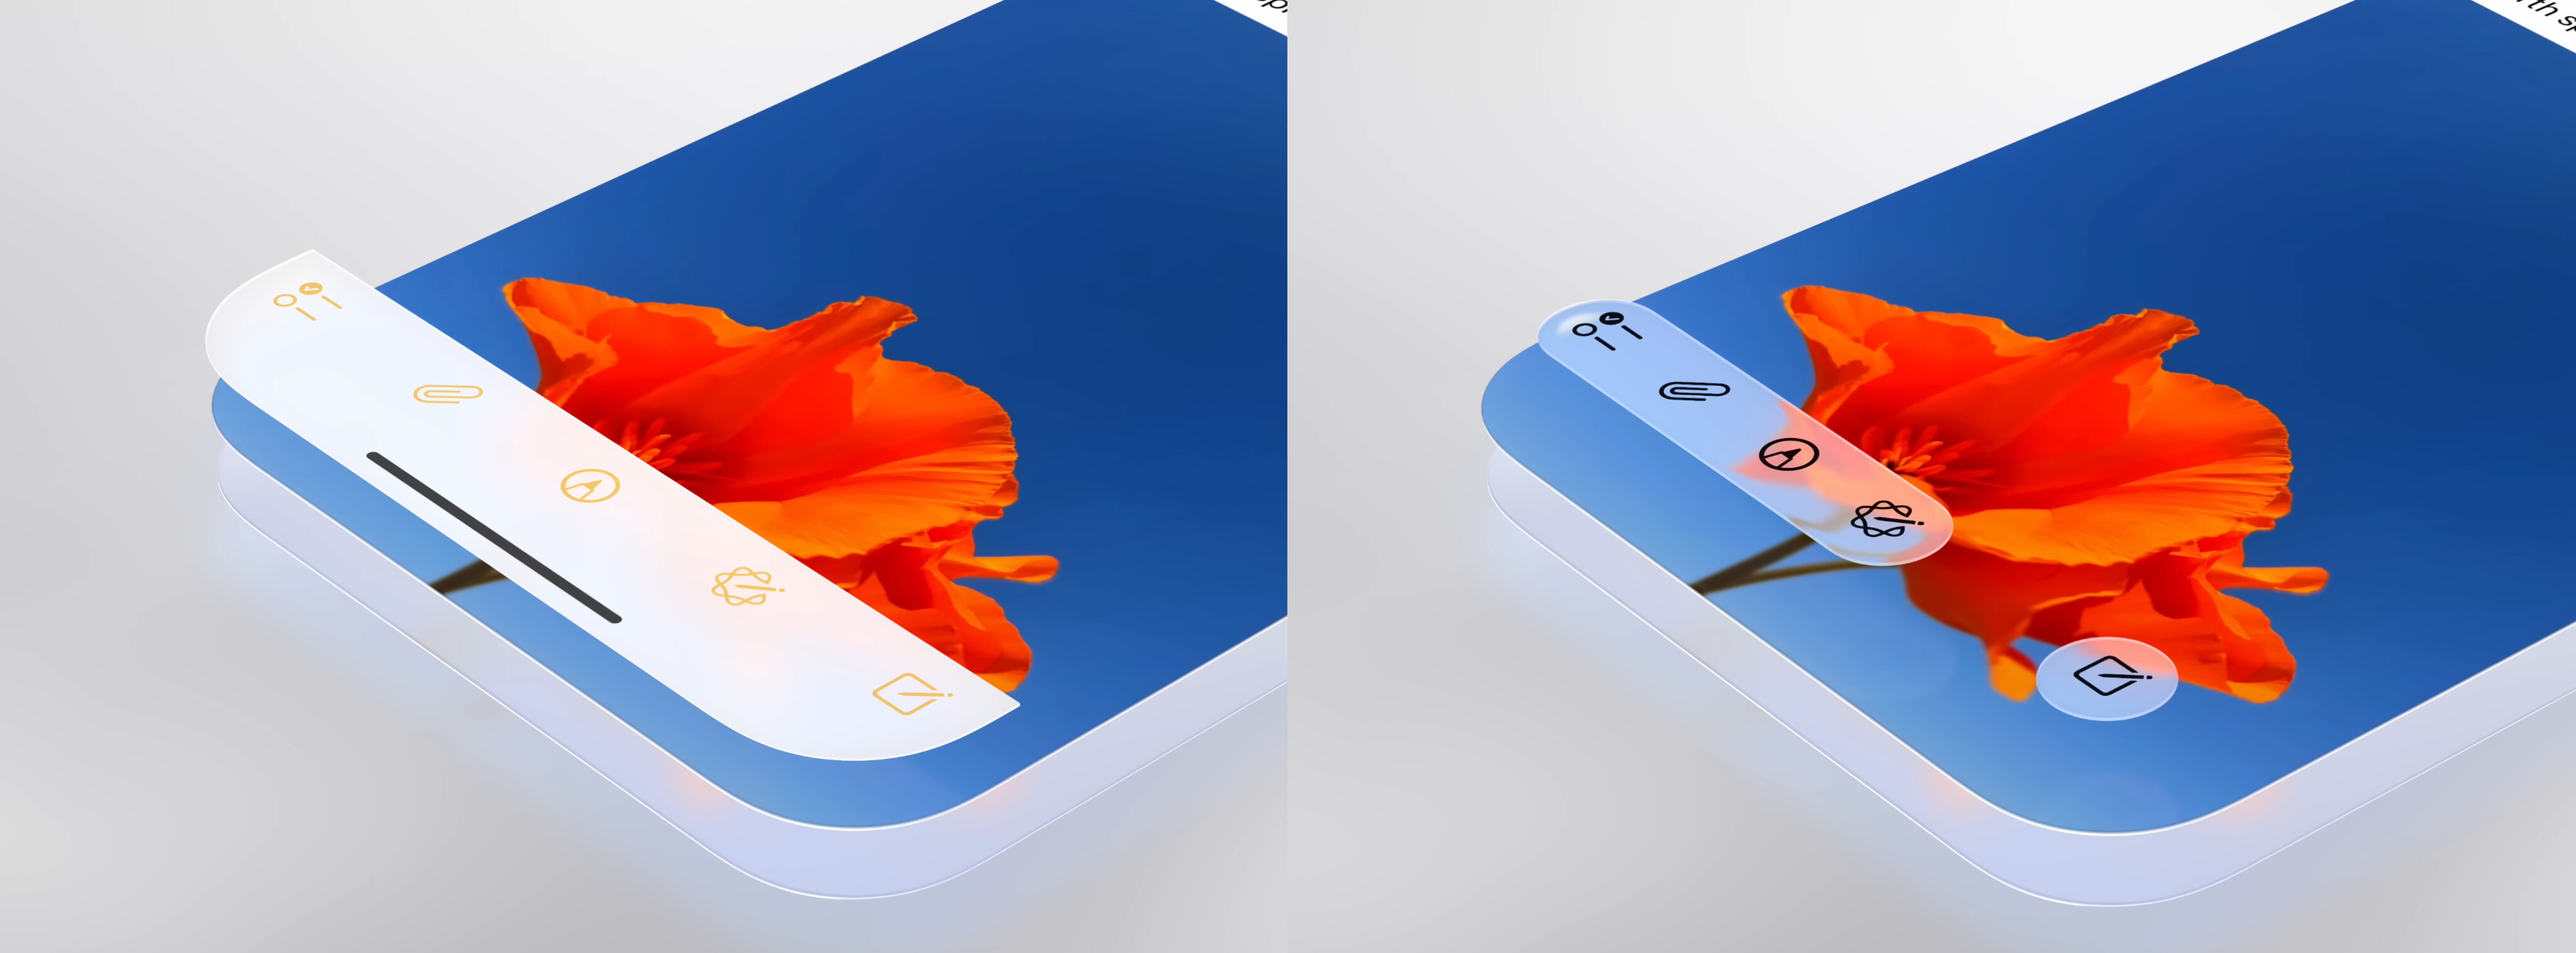
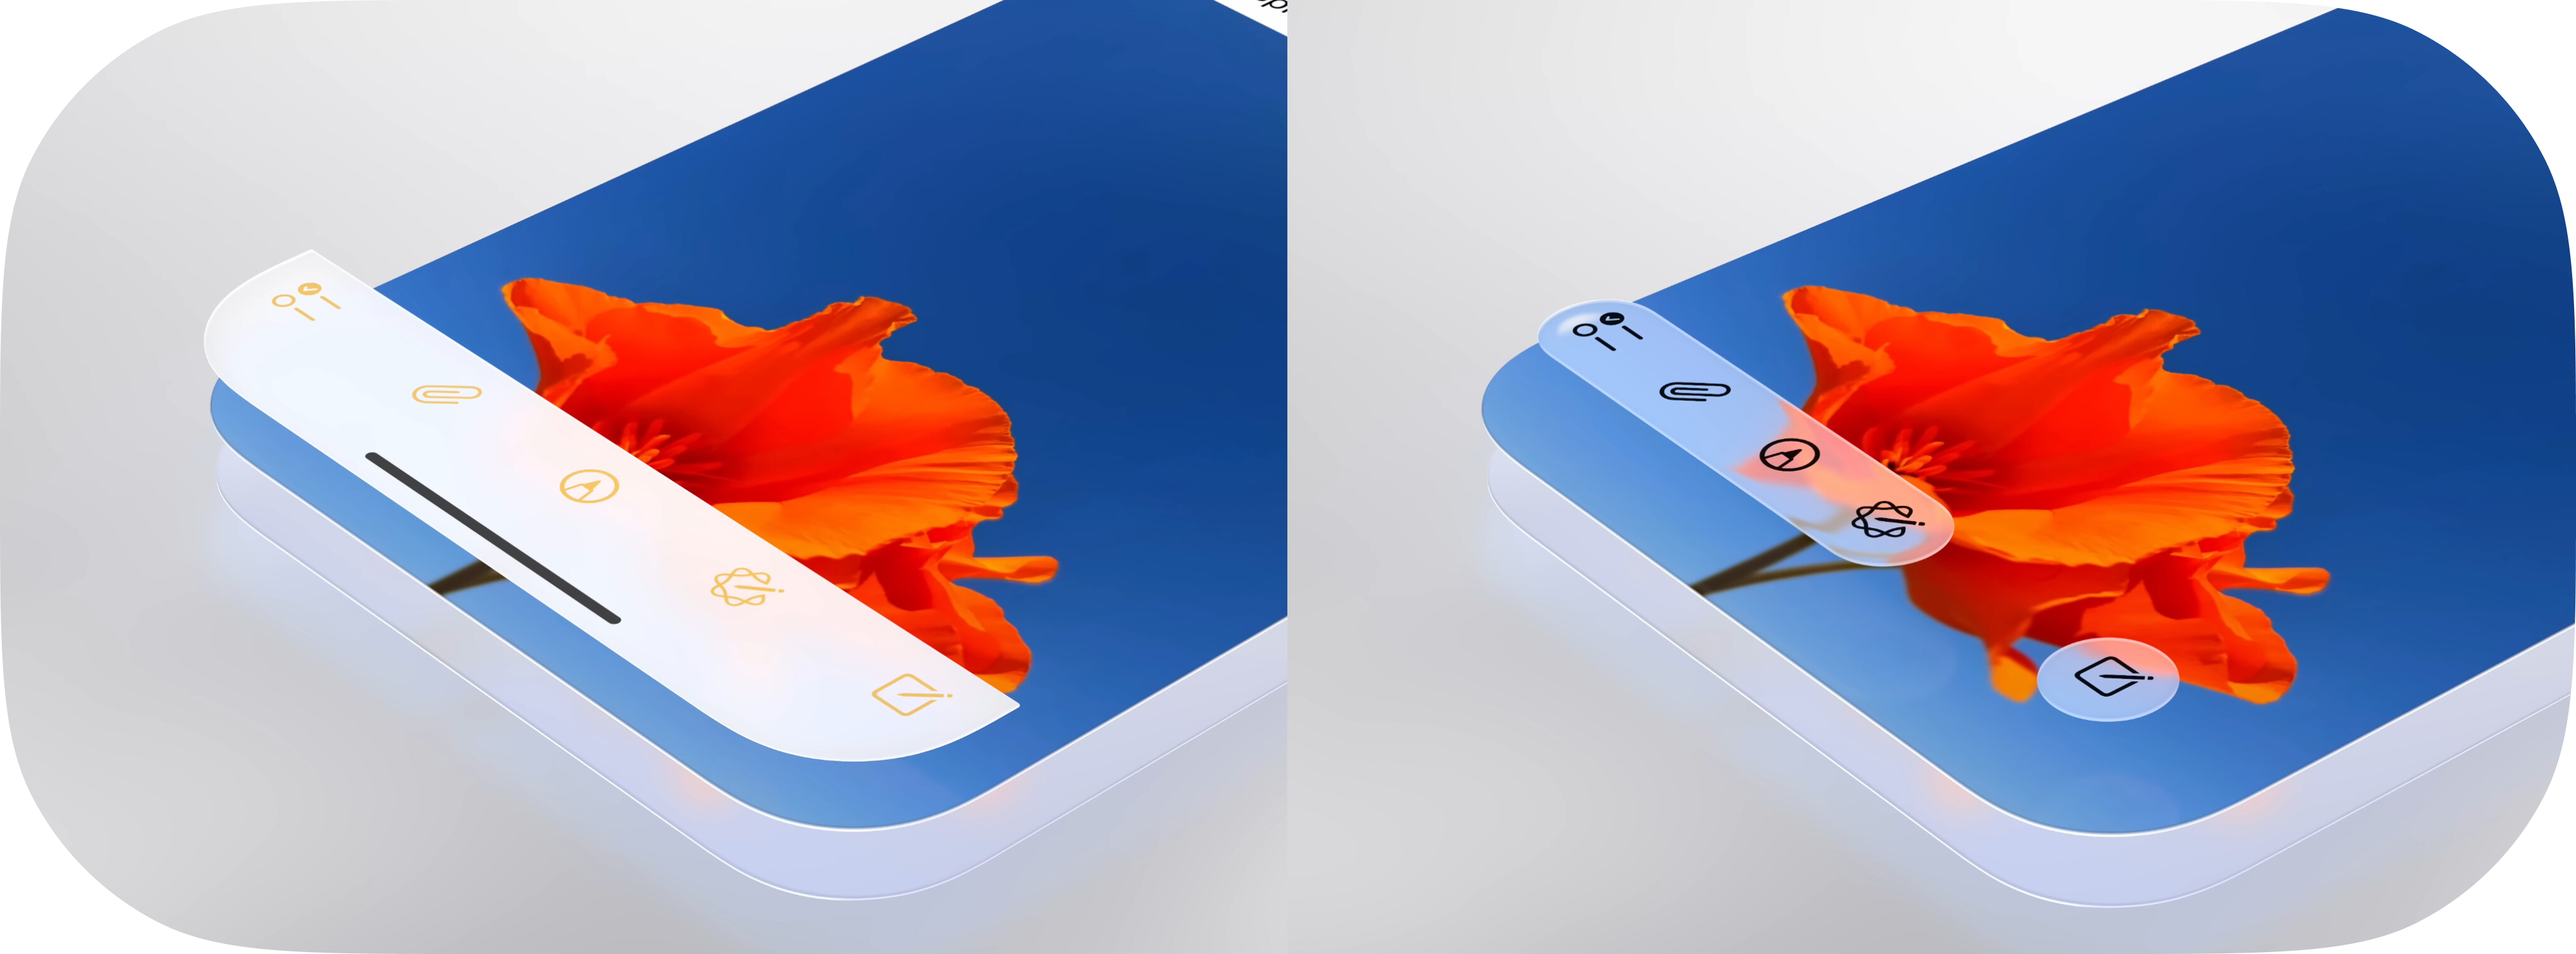
GITBOOK-3: change request with no subject merged in GitBook

diff --git a/documentation/about.md b/documentation/about.md
@@ -6,17 +6,17 @@ description: How did we get here?
 
 Apple introduced Liquid Glass in iOS26, and subtly also changed the design of all buttons and interactable items, having them separated from the edges of the screen, floating above the main content below the page. All buttons now have their own dedicated spot.
 
-<figure><img src="https://hishamc24.github.io/MNMLUI/ETC/Images/BeforeAfter%20iOS26.jpg" alt=""><figcaption></figcaption></figure>
+<figure><img src=".gitbook/assets/BeforeAfter iOS26.jpg" alt=""><figcaption></figcaption></figure>
 
 Samsung later on introduced floating components and tab bar as well, close in design to iOS26.
 
 OneUI8:&#x20;
 
-<figure><img src="https://hishamc24.github.io/MNMLUI/ETC/Images/OneUI8%20Tab%20Bar.png" alt=""><figcaption></figcaption></figure>
+<figure><img src=".gitbook/assets/OneUI8 Tab Bar.png" alt=""><figcaption></figcaption></figure>
 
 iOS26:&#x20;
 
-<figure><img src="https://hishamc24.github.io/MNMLUI/ETC/Images/iOS26%20Tab%20Bar.png" alt=""><figcaption></figcaption></figure>
+<figure><img src=".gitbook/assets/iOS26 Tab Bar.png" alt=""><figcaption></figcaption></figure>
 
 And then a thought appeared: "What if I make my own rendition of this floating tab bar design for my own work?" This started the foundation of MNMLUI.
 

diff --git a/documentation/components/styling.md b/documentation/components/styling.md
@@ -1,3 +1,5 @@
 # Styling
 
-MNMLUI starts with a foundation of a metamaterial that many people have seen before: Frosted Glass. With a translucent color and background blur, the material allows content behind it to be shown through, while being able to host content of its own.
+With a nod to Glassmorphism, MNMLUI starts with a foundation of a metamaterial that many people have seen before: Frosted Glass. With a translucent color and background blur, the material allows content behind it to be shown through, while being able to host content of its own.
+
+One issue that is addressed with glass-like materials is the inability to see the content on the glass, and this is where the CDN allows `.glassy` components to have dynamic shadows. In light mode, if the content behind a glassy component is busy or too high in brightness, the glassy item will have a darker drop shadow to separate from content below even more. On already contrasty areas, like a darker background, the drop shadow is reduced to clean up the viewport and decrease busyness on the screen.
